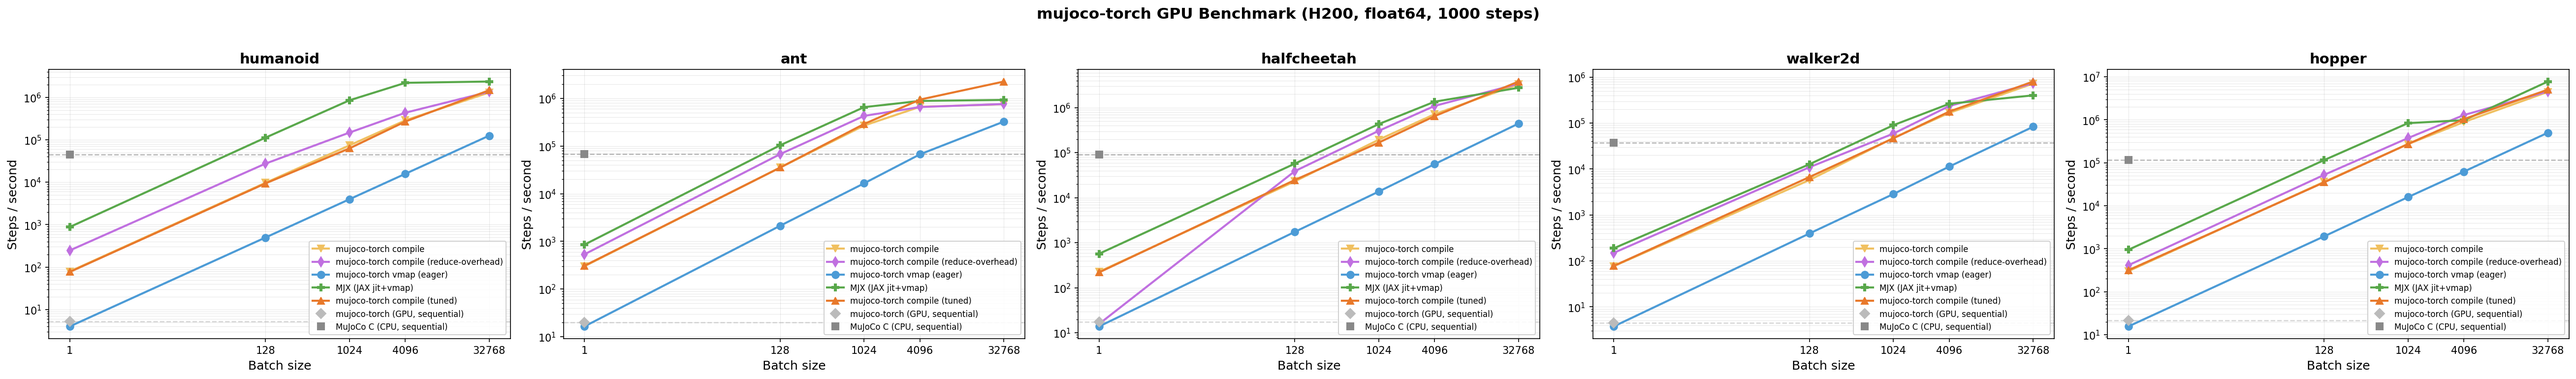
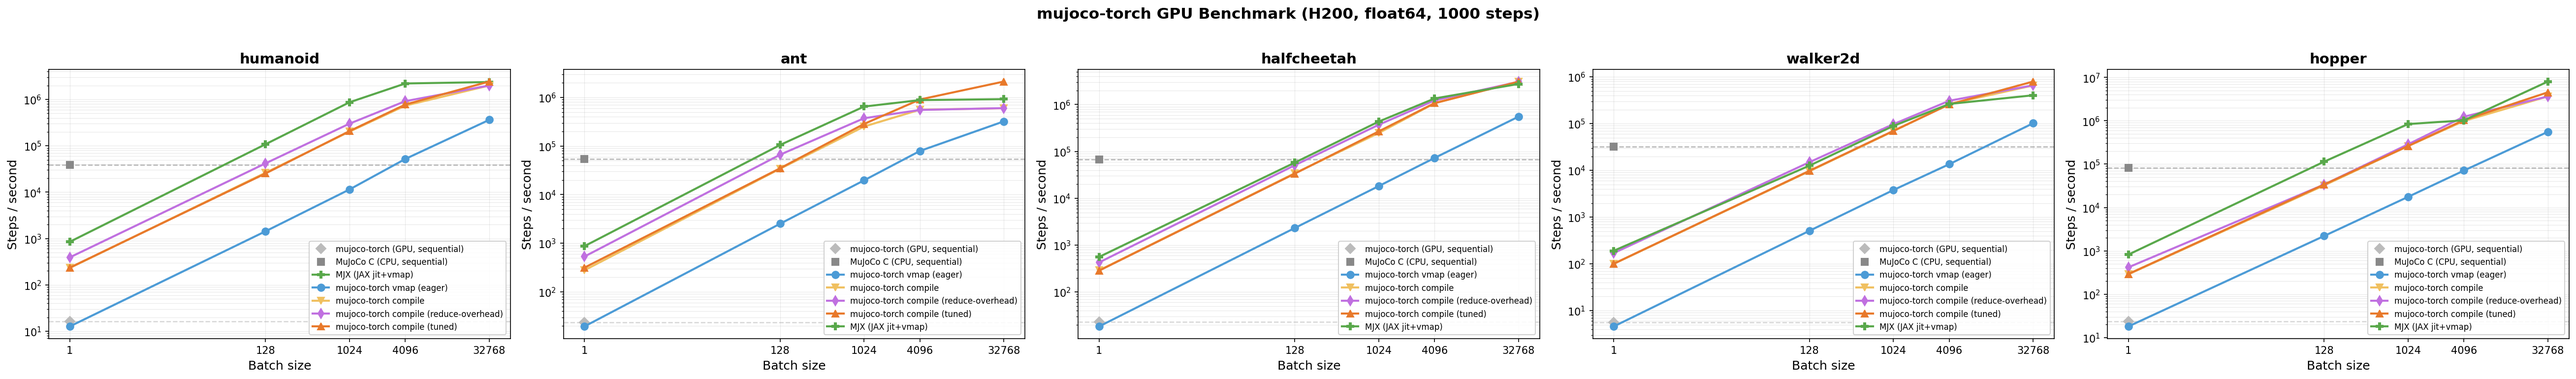
[docs] Update humanoid benchmarks after Cholesky threshold fix
Re-ran all humanoid benchmarks (vmap, compile, reduce-overhead,
tuned) on H200 after gating inline Cholesky on matrix size.
Humanoid compile at B=32768 recovered from 1.31M to 2.00M steps/s
(+11.6% vs main), tuned at 2.44M (parity with main, beats MJX).

Made-with: Cursor

diff --git a/README.md b/README.md
@@ -127,10 +127,10 @@ are measured at B=1 since they scale linearly.  All values are **steps/second**
 | Configuration | B=1 | B=128 | B=1 024 | B=4 096 | B=32 768 |
 |---|--:|--:|--:|--:|--:|
 | MuJoCo C (CPU, sequential) | 44,831 | — | — | — | — |
-| mujoco-torch vmap (eager) | 3 | 498 | 3,973 | 15,850 | 125,929 |
-| mujoco-torch compile | 78 | 9,716 | 74,103 | 288,643 | 1,312,815 |
-| mujoco-torch compile (reduce-overhead) | 246 | 27,560 | 148,412 | 436,876 | 1,363,390 |
-| **mujoco-torch compile (tuned)** | **76** | **9,420** | **62,952** | **270,751** | **1,480,464** |
+| mujoco-torch vmap (eager) | 13 | 1,431 | 11,414 | 52,093 | 363,246 |
+| mujoco-torch compile | 231 | 26,189 | 202,333 | 738,185 | 1,999,896 |
+| mujoco-torch compile (reduce-overhead) | 391 | 41,827 | 300,162 | 920,102 | 2,002,804 |
+| **mujoco-torch compile (tuned)** | **235** | **25,338** | **207,305** | **776,742** | **2,438,301** |
 | MJX (JAX jit+vmap) | 880 | 112,841 | 856,331 | 2,214,655 | 2,376,552 |
 
 ### Ant
